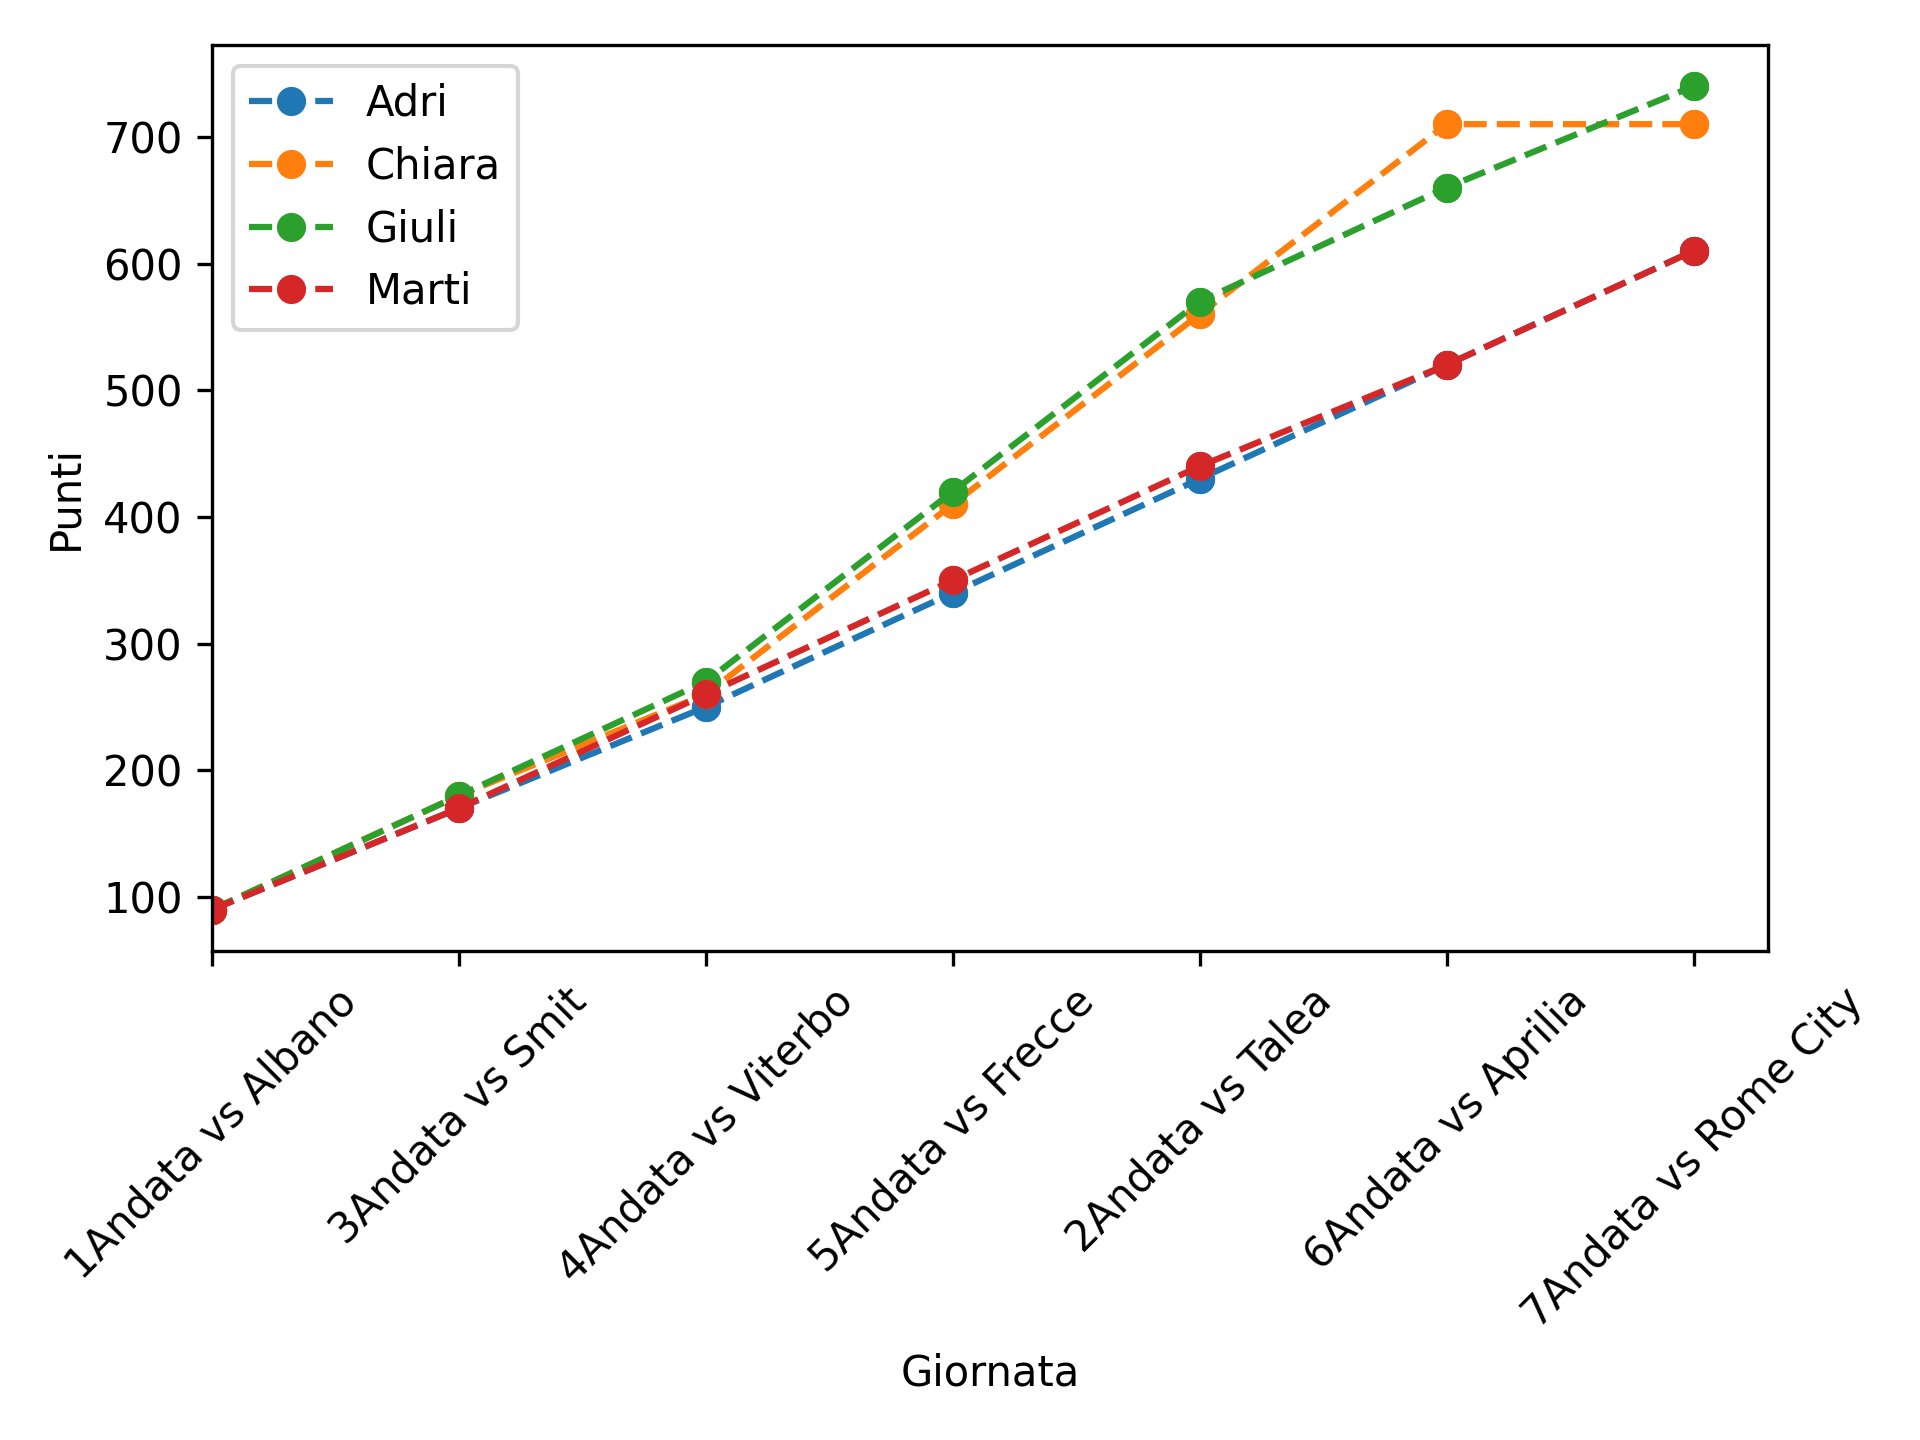
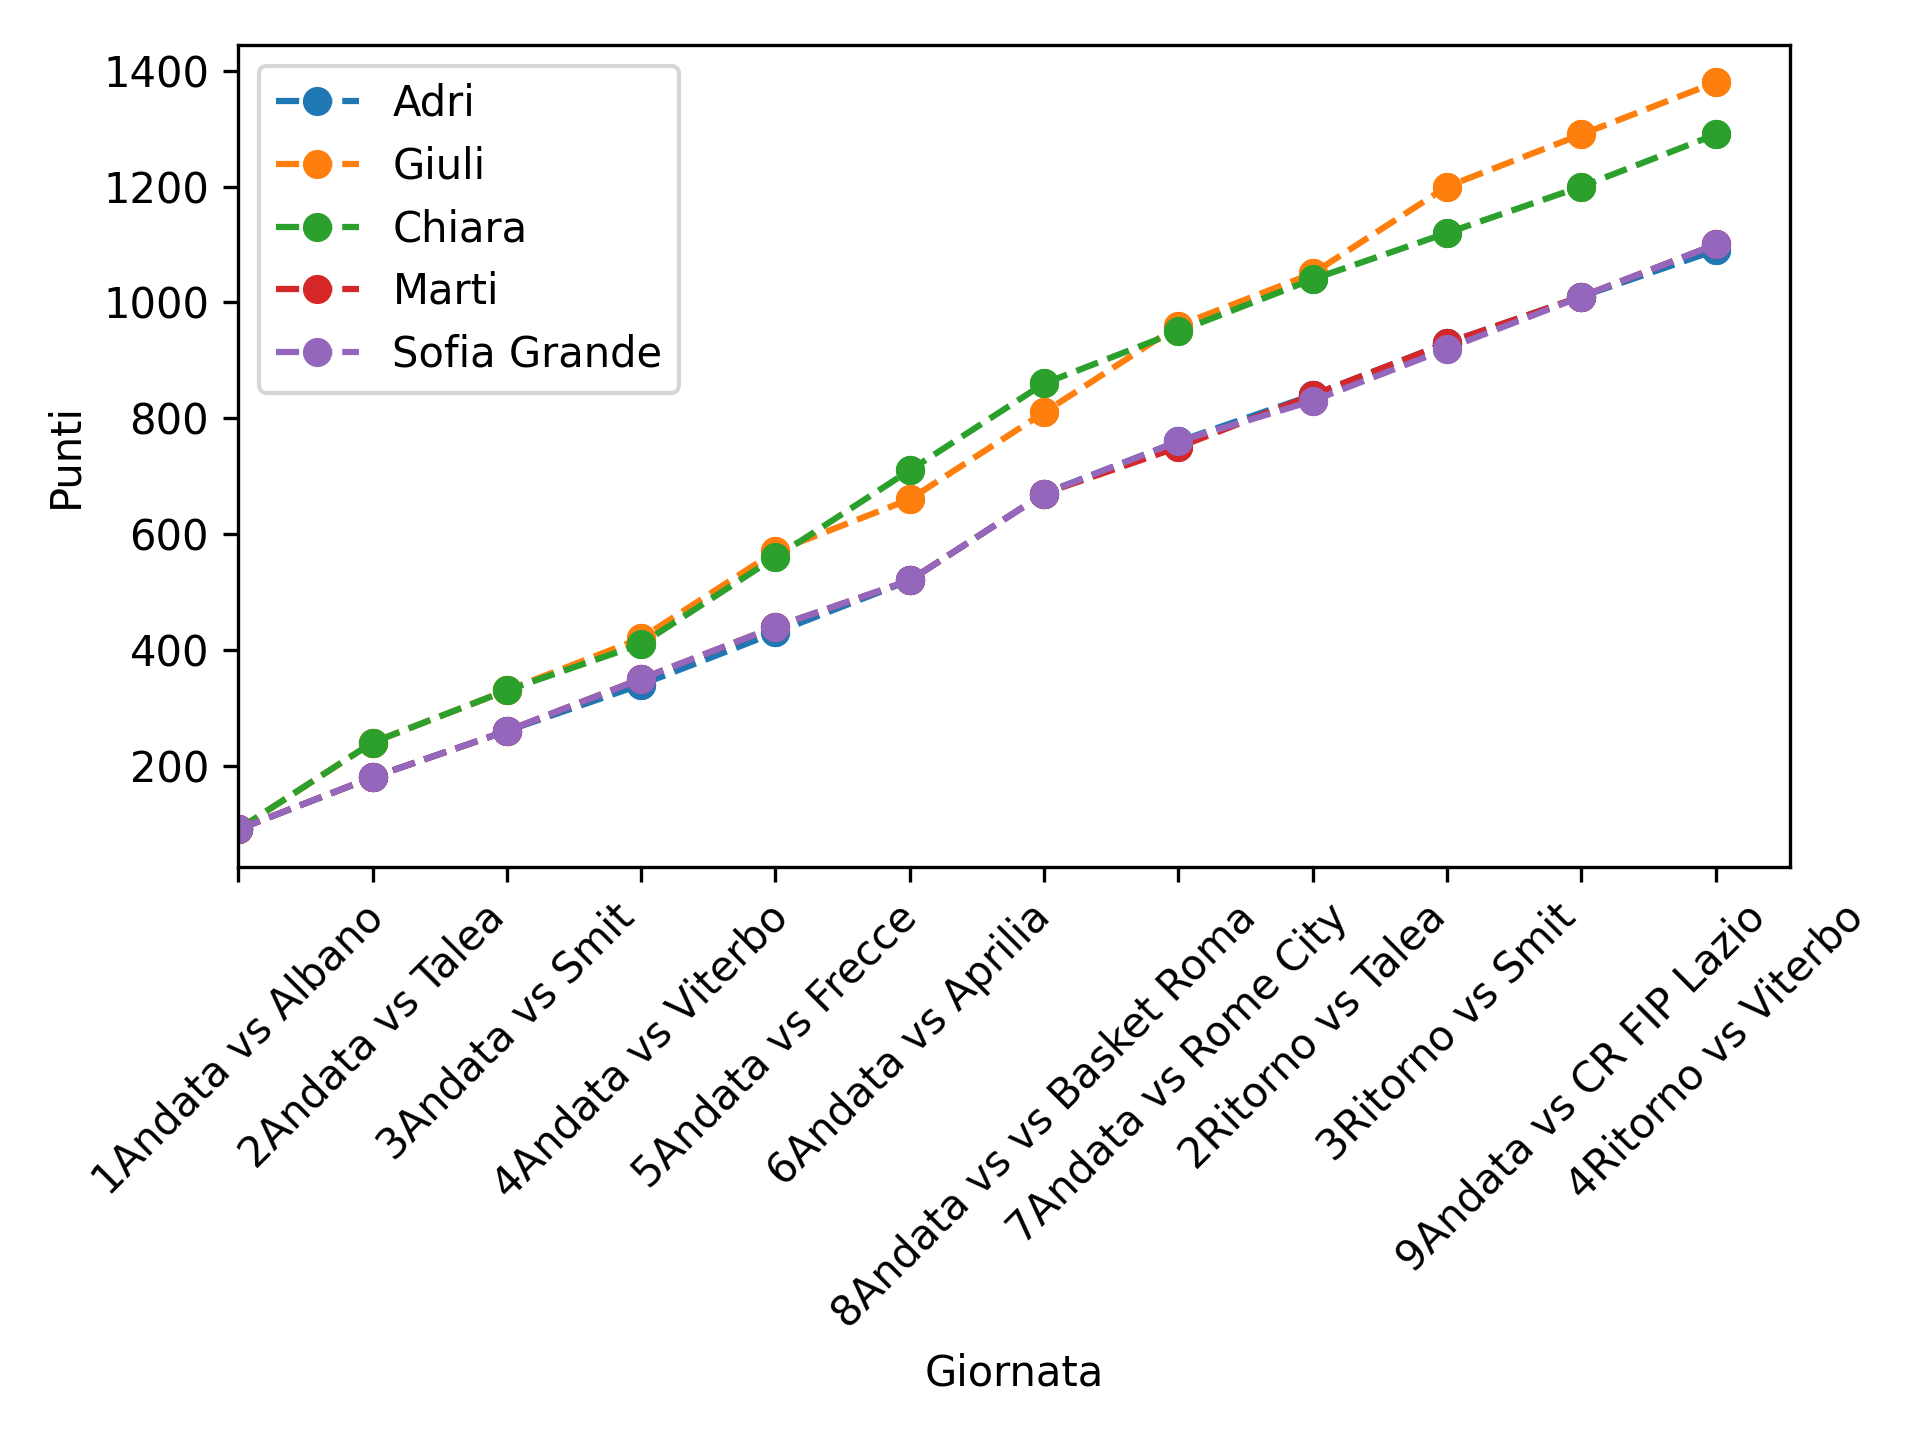
Fix bug on trend plot

diff --git a/data_utils.py b/data_utils.py
@@ -3,6 +3,7 @@ import matplotlib.pyplot as plt
 
 def rename_columns(df):
     df.rename(columns={'Chi sei': 'Name', "Seleziona le tue 10 convocate": "Selected_players", "Giornata":"Date"}, inplace=True)
+    df["Date_sort"]=pd.to_datetime(df["Timestamp"])
     return df
 
 def clean_data(df: pd.DataFrame):
@@ -54,12 +55,12 @@ def assign_points(df: pd.DataFrame):
     return df
 
 def add_points_first_round(df: pd.DataFrame):
-    min_date = df.loc[df["Name"]=="Giuli","Timestamp"].min()
-    new_entries  = pd.DataFrame({"Name":["Chiara", "Adri"], "Timestamp":[min_date, min_date], "point":[90, 90], "Date":["1Andata vs Albano", "1Andata vs Albano"]})
+    min_date = df.loc[df["Name"]=="Giuli","Date_sort"].min()
+    new_entries  = pd.DataFrame({"Name":["Chiara", "Adri"], "Date_sort":[min_date, min_date], "point":[90, 90], "Date":["1Andata vs Albano", "1Andata vs Albano"]})
     return pd.concat([df, new_entries])
 
 def get_cumulative_points(df: pd.DataFrame):
-    df = df.sort_values(["Name", "Timestamp"])  # ensure proper order
+    df = df.sort_values(["Name", "Date_sort"])  # ensure proper order
 
     df['cumulative_points'] = df.groupby('Name')['point'].cumsum()
     return df
@@ -99,7 +100,7 @@ def plot_most_selected_players(df: pd.DataFrame, save:bool=True):
 
 def plot_trend_points(df):
     df = df.loc[df["Name"] != "Coach", :]
-    df = df.sort_values(["Timestamp", "Name"])
+    df = df.sort_values(["Date_sort"])
     fig, ax = plt.subplots()
 
     for name in df.Name.unique():

diff --git a/main.py b/main.py
@@ -13,8 +13,8 @@ df = get_cumulative_points(df=df)
 df_ranking = make_ranking(df=df)
 markdown_table = df_ranking.to_markdown()
 update_table_in_file("docs/Classifica.md", markdown_table=markdown_table, suffix="RANKING")
-last_pick = df.groupby("Name", as_index=False)["Timestamp"].max()
-markdown_table_selected = df.loc[~(df["Name"]=="Coach")&(df["Timestamp"].isin(last_pick["Timestamp"])), ["Name", "Selezionata e convocata", "Selezionata e non convocata"]]
+last_pick = df.groupby("Name", as_index=False)["Date_sort"].max()
+markdown_table_selected = df.loc[~(df["Name"]=="Coach")&(df["Date_sort"].isin(last_pick["Date_sort"])), ["Name", "Selezionata e convocata", "Selezionata e non convocata"]]
 markdown_table_selected.set_index("Name", inplace=True)
 markdown_table_selected = markdown_table_selected.to_markdown()
 update_table_in_file("docs/Classifica.md", markdown_table=markdown_table_selected, suffix="CORRECT")

diff --git a/docs/Classifica.md b/docs/Classifica.md
@@ -1,11 +1,12 @@
 # Vedi qua la classifica aggiornata
 <!-- START_TABLE RANKING -->
-| Name   |   point |
-|:-------|--------:|
-| Giuli  |     740 |
-| Chiara |     710 |
-| Adri   |     610 |
-| Marti  |     610 |
+| Name         |   point |
+|:-------------|--------:|
+| Giuli        |    1380 |
+| Chiara       |    1290 |
+| Marti        |    1100 |
+| Sofia Grande |    1100 |
+| Adri         |    1090 |
 <!-- END_TABLE RANKING -->
 
 [Scarica classifica](data/ranking.csv)
@@ -15,10 +16,11 @@
 
 # Ultima Giornata
 <!-- START_TABLE CORRECT -->
-| Name   | Selezionata e convocata                                                                            | Selezionata e non convocata   |
-|:-------|:---------------------------------------------------------------------------------------------------|:------------------------------|
-| Adri   | {'Elisa', 'Sara', 'Susanna Fodaro', 'Marti Door', 'Giulia', 'Chiara', 'Gioia', 'Virginia', 'Luna'} | {'Silvia'}                    |
-| Chiara | set()                                                                                              | {'Formazione non inserita'}   |
-| Giuli  | {'Elisa', 'Sara', 'Marti Door', 'Giulia', 'Chiara', 'Sofia Grande', 'Virginia', 'Luna'}            | {'Sophia Piccola', 'Silvia'}  |
-| Marti  | {'Elisa', 'Sara', 'Marti Door', 'Giulia', 'Chiara', 'Sofia Grande', 'Gioia', 'Virginia', 'Luna'}   | {'Andre'}                     |
+| Name         | Selezionata e convocata                                                                                       | Selezionata e non convocata   |
+|:-------------|:--------------------------------------------------------------------------------------------------------------|:------------------------------|
+| Adri         | {'Gioia', 'Sara', 'Luna', 'Sofia Grande', 'Virginia', 'Susanna Fodaro', 'Giulia', 'Chiara'}                   | {'Marti Door', 'Silvia'}      |
+| Chiara       | {'Gioia', 'Sara', 'Luna', 'Elisa', 'Sofia Grande', 'Virginia', 'Susanna Fodaro', 'Giulia', 'Chiara'}          | {'Silvia'}                    |
+| Giuli        | {'Gioia', 'Sara', 'Luna', 'Elisa', 'Sofia Grande', 'Virginia', 'Susanna Fodaro', 'Giulia', 'Chiara'}          | {'Marti Door'}                |
+| Marti        | {'Gioia', 'Sara', 'Luna', 'Elisa', 'Sofia Grande', 'Virginia', 'Susanna Fodaro', 'Giulia', 'Chiara'}          | {'Marti Door'}                |
+| Sofia Grande | {'Gioia', 'Sara', 'Luna', 'Sofia Grande', 'Virginia', 'Susanna Fodaro', 'Giulia', 'Chiara', 'Sophia Piccola'} | {'Marti Gualti'}              |
 <!-- END_TABLE CORRECT -->
